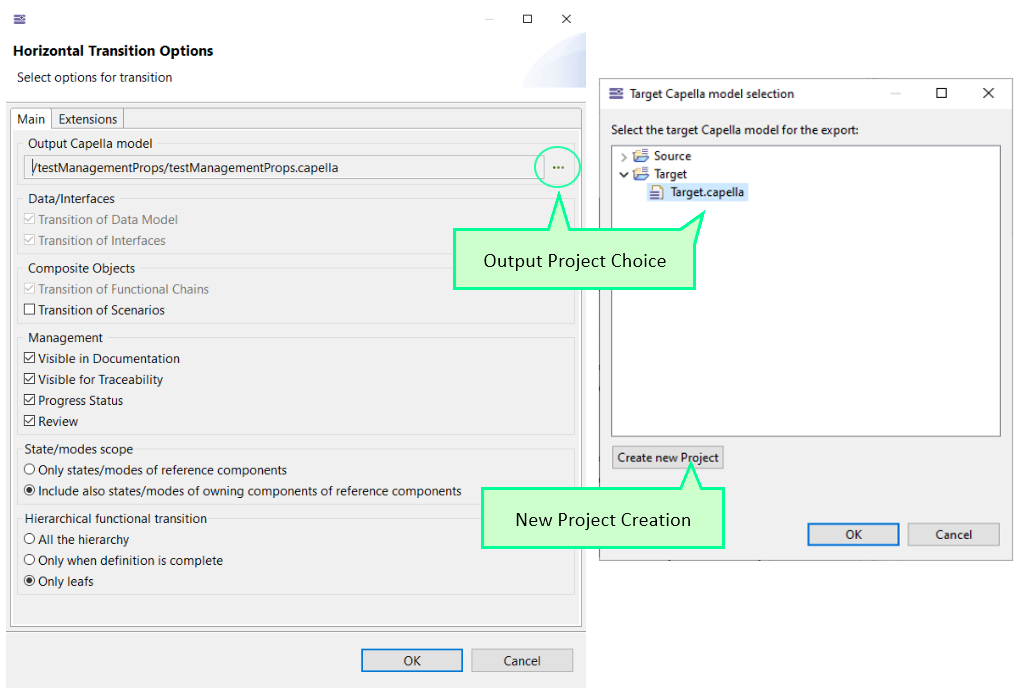
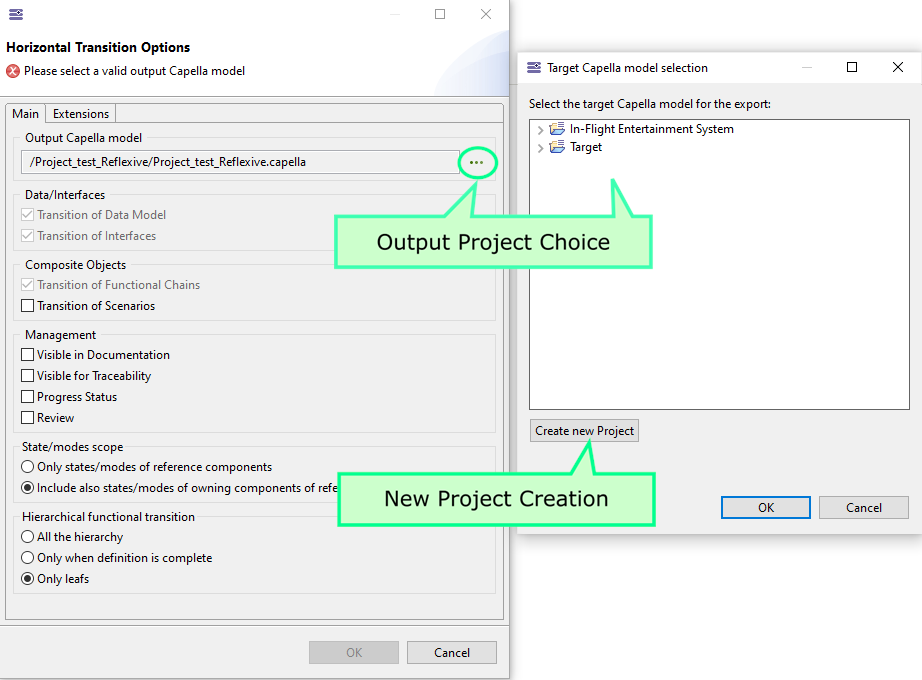
#98 Filter source project from target model selection dialog
Prevent the possibility to select the source Capella project as target
of the transition.

Update documentation screen capture of the target model choice.

Changed region(s): [[0.0, 0.0, 1.0, 1.0], [0.0, 0.0, 0.0304, 0.0309]]

diff --git a/plugins/org.polarsys.capella.transition.system2subsystem.doc/html/User Manual/14.2. Usage instructions.html b/plugins/org.polarsys.capella.transition.system2subsystem.doc/html/User Manual/14.2. Usage instructions.html
@@ -18,7 +18,7 @@
 		</p>
 		<h2 id="Configuration_of_the_transition">Configuration of the transition</h2>
 		<p>A configuration dialog opens with two tabs.</p>
-		<p>The "Main" tab allows, among others parameters, to choose the target model.</p>
+		<p>The "Main" tab allows, among others parameters, to choose the target model (excluding the source model).</p>
 		<p>
 			<img width="682" border="0" src="Images/Config_Transition_main.png"/>
 		</p>

diff --git a/plugins/org.polarsys.capella.transition.system2subsystem.ui/src/org/polarsys/capella/transition/system2subsystem/ui/preferences/FilteredOutputModelRenderer.java b/plugins/org.polarsys.capella.transition.system2subsystem.ui/src/org/polarsys/capella/transition/system2subsystem/ui/preferences/FilteredOutputModelRenderer.java
@@ -1,0 +1,64 @@
+package org.polarsys.capella.transition.system2subsystem.ui.preferences;
+
+import org.eclipse.core.resources.IProject;
+import org.eclipse.core.resources.IResource;
+import org.eclipse.emf.ecore.resource.Resource;
+import org.eclipse.jface.viewers.Viewer;
+import org.eclipse.jface.viewers.ViewerFilter;
+import org.eclipse.swt.widgets.Shell;
+import org.eclipse.ui.model.BaseWorkbenchContentProvider;
+import org.eclipse.ui.model.WorkbenchLabelProvider;
+import org.polarsys.capella.common.flexibility.wizards.schema.IRendererContext;
+import org.polarsys.capella.common.helpers.EcoreUtil2;
+import org.polarsys.capella.core.transition.common.constants.ITransitionConstants;
+import org.polarsys.capella.core.transition.common.context.TransitionContext;
+import org.polarsys.capella.core.transition.system.ui.dialog.ProjectSelectionDialog;
+import org.polarsys.capella.core.transition.system.ui.preferences.OutputModelRenderer;
+
+public class FilteredOutputModelRenderer extends OutputModelRenderer {
+  
+  class NoSourceProjectViewerFilter extends ViewerFilter {
+    
+    private IProject toFilterCapellaProject;
+    
+    public NoSourceProjectViewerFilter(Resource toFilterCapellaProject) {
+       this.toFilterCapellaProject = EcoreUtil2.getFile(toFilterCapellaProject).getProject();
+    }
+    
+    @Override
+    public boolean select(Viewer viewer, Object parentElement, Object element) {
+      return element instanceof IResource && !this.toFilterCapellaProject.equals(element);
+    }
+  }
+  
+  /**
+   * {@inheritDoc}
+   */
+  @Override
+  protected void proceedBrowse(Shell shell, IRendererContext context) {
+    String targetCapellaProject = getTargetProject(shell, context);
+    if (targetCapellaProject != null) {
+      changeValue(context.getProperty(this), context, targetCapellaProject);
+      updatedValue(context.getProperty(this), context, targetCapellaProject);
+    }
+  }
+
+  protected String getTargetProject(Shell shell, IRendererContext context) {
+    ProjectSelectionDialog dialog = new ProjectSelectionDialog(shell, new WorkbenchLabelProvider(),
+        new BaseWorkbenchContentProvider());
+
+    if (context.getPropertyContext().getSource() instanceof TransitionContext) {
+      TransitionContext transitionContext = (TransitionContext) context.getPropertyContext().getSource();
+      Resource sourceModelResource = (Resource) transitionContext.get(ITransitionConstants.TRANSITION_SOURCE_RESOURCE);
+      dialog.addFilter(new NoSourceProjectViewerFilter(sourceModelResource));
+    }
+
+    dialog.open();
+    Object obj = dialog.getFirstResult();
+    if (obj instanceof String) {
+      return (String) obj;
+    }
+    return null;
+  }
+  
+}
